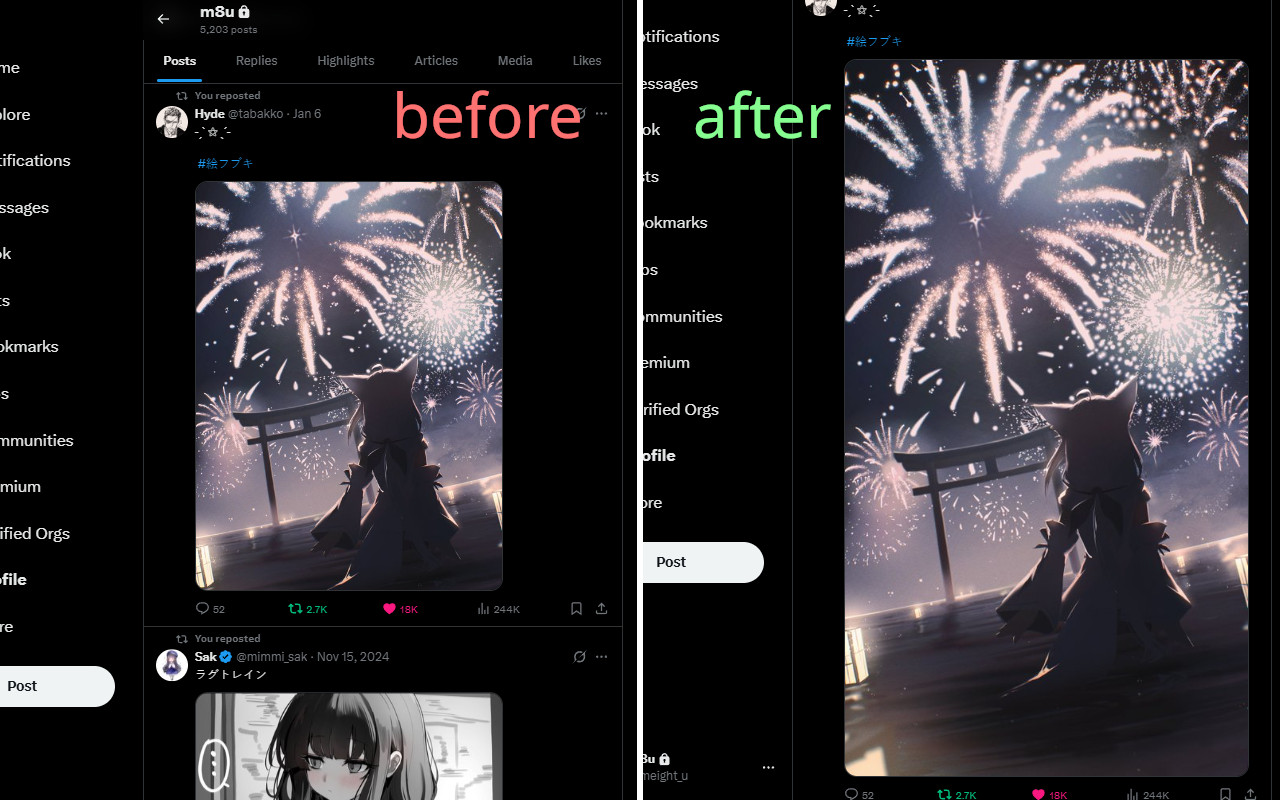
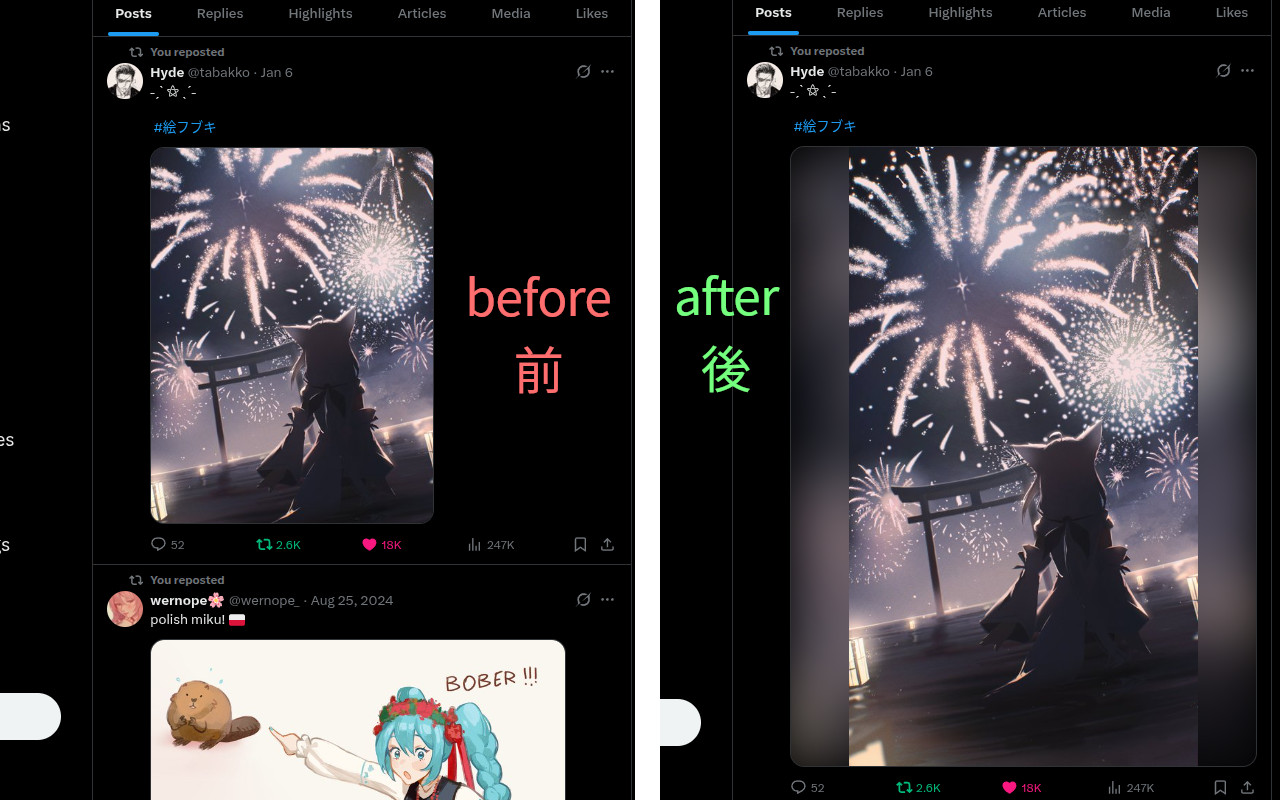
rewrite to pure CSS

diff --git a/content.js b/content.js
@@ -1,78 +1,76 @@
-function sleep(ms) {
-    return new Promise(resolve => setTimeout(resolve, ms));
+/*
+2025-09-11 Message for future me
+
+Xitter have slightly changed their crap layout again, and I'm done with maintaining my
+MutationObserver solution because it sucks anyway. Observer just can't keep up
+with everything that's going on, so we randomly get empty mutations, and some mutations
+are skipped whatsoever. I tried to deal with it, waiting a bit with sleep() before processing
+each mutation, and it worked reliably enough but obviously led to visible lag, especially when
+scrolling very fast or scrolling up.
+
+So this time I wanted to see how far can we go with pure CSS. As of today,
+Xitter limits the width of images in single-image posts to 504px,
+so we just use all the width there is. As for height, it's controlled by
+that padding-bottom: 133.333% node and can't be set correctly any way other than using JS.
+That is because the value for padding-bottom is set dynamically by Xitter's main.js
+(found by searching "paddingBottom: `", around 90kth line, though I couldn't find the exact
+place where it is calculated and capped to 133.333). The logical solution would be to completely
+override it, but that's out of scope of a content script. I guess it can be overriden using devtools
+local overrides or something like Tapermonkey or Requestly.
+
+For some reason, there is a sibling <div> next to each <img>, with background-image set to the same
+url, and it's actually always the <div> that is shown, while <img> has opacity of 0. I kinda remember
+noticing this earlier, but didn't pay much attention.
+
+Just for the sake of releasing a new, somewhat working version of TwitterLargeThumbnails, the current solution is:
+- for all elements that are limiting width of the image, set their width to 516px
+- make <img> visible and leave height as it is, set object-fit: contain, so image is not stretched
+- blur the background of sibling <div>
+This way, though scaled down a bit, we get to see whole image and to my preference it looks okay.
+*/
+
+var isFirefox = typeof InstallTrigger !== "undefined";
+
+const style = document.createElement("style")
+if (isFirefox) { // responsive layout works differently in Firefox for whatever reason
+    style.innerHTML = `
+        div.css-175oi2r div.css-175oi2r div.css-175oi2r.r-16y2uox div.css-175oi2r.r-f8sm7e.r-13qz1uu.r-1ye8kvj section.css-175oi2r div.css-175oi2r div div.css-175oi2r div.css-175oi2r.r-1igl3o0.r-qklmqi.r-1adg3ll.r-1ny4l3l div.css-175oi2r article.css-175oi2r.r-18u37iz.r-1udh08x.r-kpt88i.r-19m1me0.r-o7ynqc.r-6416eg.r-1ny4l3l.r-1loqt21 div.css-175oi2r.r-eqz5dr.r-16y2uox.r-1wbh5a2 div.css-175oi2r.r-16y2uox.r-1wbh5a2.r-1ny4l3l div.css-175oi2r.r-18u37iz div.css-175oi2r.r-1iusvr4.r-16y2uox.r-1777fci.r-1t982j2 div.css-175oi2r.r-9aw3ui.r-a1ub67 div.css-175oi2r.r-9aw3ui div.css-175oi2r {
+            max-width: 504px !important;
+        }
+
+        div.css-175oi2r div.css-175oi2r div.css-175oi2r.r-16y2uox div.css-175oi2r.r-f8sm7e.r-13qz1uu.r-1ye8kvj section.css-175oi2r div.css-175oi2r div div.css-175oi2r div.css-175oi2r.r-1igl3o0.r-qklmqi.r-1adg3ll.r-1ny4l3l div.css-175oi2r article.css-175oi2r.r-18u37iz.r-1udh08x.r-kpt88i.r-19m1me0.r-o7ynqc.r-6416eg.r-1ny4l3l.r-1loqt21 div.css-175oi2r.r-eqz5dr.r-16y2uox.r-1wbh5a2 div.css-175oi2r.r-16y2uox.r-1wbh5a2.r-1ny4l3l div.css-175oi2r.r-18u37iz div.css-175oi2r.r-1iusvr4.r-16y2uox.r-1777fci.r-1t982j2 div.css-175oi2r.r-9aw3ui.r-a1ub67 div.css-175oi2r.r-9aw3ui div.css-175oi2r div.css-175oi2r.r-k200y div.css-175oi2r.r-1kqtdi0.r-1phboty.r-rs99b7.r-1867qdf.r-1udh08x.r-o7ynqc.r-6416eg.r-1ny4l3l div.css-175oi2r div.css-175oi2r.r-16y2uox.r-1pi2tsx.r-13qz1uu a.css-175oi2r.r-1pi2tsx.r-1ny4l3l.r-1loqt21 div.css-175oi2r.r-1adg3ll.r-1udh08x {
+            width: 504px !important;
+            height: max-content !important;
+        }
+
+        div.css-175oi2r div.css-175oi2r.r-16y2uox div.css-175oi2r.r-f8sm7e.r-13qz1uu.r-1ye8kvj section.css-175oi2r div.css-175oi2r div div.css-175oi2r div.css-175oi2r.r-1igl3o0.r-qklmqi.r-1adg3ll.r-1ny4l3l div.css-175oi2r article.css-175oi2r.r-18u37iz.r-1udh08x.r-kpt88i.r-19m1me0.r-o7ynqc.r-6416eg.r-1ny4l3l.r-1loqt21 div.css-175oi2r.r-eqz5dr.r-16y2uox.r-1wbh5a2 div.css-175oi2r.r-16y2uox.r-1wbh5a2.r-1ny4l3l div.css-175oi2r.r-18u37iz div.css-175oi2r.r-1iusvr4.r-16y2uox.r-1777fci.r-1t982j2 div.css-175oi2r.r-9aw3ui.r-a1ub67 div.css-175oi2r.r-9aw3ui div.css-175oi2r div.css-175oi2r div.css-175oi2r.r-1kqtdi0.r-1phboty.r-rs99b7.r-1867qdf.r-1udh08x.r-o7ynqc.r-6416eg.r-1ny4l3l div.css-175oi2r div.css-175oi2r.r-16y2uox.r-1pi2tsx.r-13qz1uu a.css-175oi2r.r-1pi2tsx.r-1ny4l3l.r-1loqt21 div.css-175oi2r.r-1adg3ll.r-1udh08x div.r-1p0dtai.r-1pi2tsx.r-1d2f490.r-u8s1d.r-ipm5af.r-13qz1uu div.css-175oi2r.r-1mlwlqe.r-1udh08x.r-417010.r-aqfbo4.r-agouwx.r-1p0dtai.r-1d2f490.r-u8s1d.r-zchlnj.r-ipm5af img.css-9pa8cd {
+            opacity: 1;
+            object-fit: contain;
+        }
+
+        div.css-175oi2r div.css-175oi2r div.css-175oi2r.r-16y2uox div.css-175oi2r.r-f8sm7e.r-13qz1uu.r-1ye8kvj section.css-175oi2r div.css-175oi2r div div.css-175oi2r div.css-175oi2r.r-1igl3o0.r-qklmqi.r-1adg3ll.r-1ny4l3l div.css-175oi2r article.css-175oi2r.r-18u37iz.r-1udh08x.r-kpt88i.r-19m1me0.r-o7ynqc.r-6416eg.r-1ny4l3l.r-1loqt21 div.css-175oi2r.r-eqz5dr.r-16y2uox.r-1wbh5a2 div.css-175oi2r.r-16y2uox.r-1wbh5a2.r-1ny4l3l div.css-175oi2r.r-18u37iz div.css-175oi2r.r-1iusvr4.r-16y2uox.r-1777fci.r-1t982j2 div.css-175oi2r.r-9aw3ui.r-a1ub67 div.css-175oi2r.r-9aw3ui div.css-175oi2r div.css-175oi2r div.css-175oi2r.r-1kqtdi0.r-1phboty.r-rs99b7.r-1867qdf.r-1udh08x.r-o7ynqc.r-6416eg.r-1ny4l3l div.css-175oi2r div.css-175oi2r.r-16y2uox.r-1pi2tsx.r-13qz1uu a.css-175oi2r.r-1pi2tsx.r-1ny4l3l.r-1loqt21 div.css-175oi2r.r-1adg3ll.r-1udh08x div.r-1p0dtai.r-1pi2tsx.r-1d2f490.r-u8s1d.r-ipm5af.r-13qz1uu div.css-175oi2r.r-1mlwlqe.r-1udh08x.r-417010.r-aqfbo4.r-agouwx.r-1p0dtai.r-1d2f490.r-u8s1d.r-zchlnj.r-ipm5af div.css-175oi2r.r-1niwhzg.r-vvn4in.r-u6sd8q.r-1p0dtai.r-1pi2tsx.r-1d2f490.r-u8s1d.r-zchlnj.r-ipm5af.r-13qz1uu.r-1wyyakw.r-4gszlv {
+            filter: blur(2em) brightness(0.7);
+        }
+    `
+} else {
+    style.innerHTML = `
+        div.css-175oi2r.r-18u37iz > div.css-175oi2r.r-1iusvr4.r-16y2uox.r-1777fci.r-kzbkwu > div.css-175oi2r.r-9aw3ui.r-1s2bzr4 > div.css-175oi2r.r-9aw3ui > div {
+            max-width: 516px !important;
+        }
+
+        div.css-175oi2r.r-9aw3ui > div.css-175oi2r > div.css-175oi2r.r-k200y > div.css-175oi2r.r-1kqtdi0.r-1phboty.r-rs99b7.r-1867qdf.r-1udh08x.r-o7ynqc.r-6416eg.r-1ny4l3l > div.css-175oi2r > div.css-175oi2r.r-16y2uox.r-1pi2tsx.r-13qz1uu > a.css-175oi2r.r-1pi2tsx.r-1ny4l3l.r-1loqt21 > div {
+            width: 516px !important;
+            height: max-content !important;
+        }
+
+        div.css-175oi2r.r-9aw3ui > div.css-175oi2r > div.css-175oi2r.r-k200y > div.css-175oi2r.r-1kqtdi0.r-1phboty.r-rs99b7.r-1867qdf.r-1udh08x.r-o7ynqc.r-6416eg.r-1ny4l3l > div.css-175oi2r > div.css-175oi2r.r-16y2uox.r-1pi2tsx.r-13qz1uu > a.css-175oi2r.r-1pi2tsx.r-1ny4l3l.r-1loqt21 > div.css-175oi2r.r-1adg3ll.r-1udh08x > div.r-1p0dtai.r-1pi2tsx.r-1d2f490.r-u8s1d.r-ipm5af.r-13qz1uu > div.css-175oi2r.r-1mlwlqe.r-1udh08x.r-417010.r-aqfbo4.r-agouwx.r-1p0dtai.r-1d2f490.r-u8s1d.r-zchlnj.r-ipm5af > img {
+            opacity: 1;
+            object-fit: contain;
+        }
+
+        div.css-175oi2r.r-9aw3ui > div.css-175oi2r > div.css-175oi2r.r-k200y > div.css-175oi2r.r-1kqtdi0.r-1phboty.r-rs99b7.r-1867qdf.r-1udh08x.r-o7ynqc.r-6416eg.r-1ny4l3l > div.css-175oi2r > div.css-175oi2r.r-16y2uox.r-1pi2tsx.r-13qz1uu > a.css-175oi2r.r-1pi2tsx.r-1ny4l3l.r-1loqt21 > div.css-175oi2r.r-1adg3ll.r-1udh08x > div.r-1p0dtai.r-1pi2tsx.r-1d2f490.r-u8s1d.r-ipm5af.r-13qz1uu > div.css-175oi2r.r-1mlwlqe.r-1udh08x.r-417010.r-aqfbo4.r-agouwx.r-1p0dtai.r-1d2f490.r-u8s1d.r-zchlnj.r-ipm5af > div {
+            filter: blur(2em) brightness(0.7);
+        }
+    `
 }
-
-function process(mutation) {
-    if (!mutation.addedNodes) {
-        return;
-    }
-
-    const image = mutation.addedNodes[0];
-    if (!image) {
-        return;
-    }
-    try {
-        if (image.className !== "css-9pa8cd" || !(image.getAttribute("src").includes("/media/"))) {
-            return;
-        }
-    } catch (e) {
-        console.log(e)
-        return;
-    }
-
-    if (image.naturalWidth === 0) {
-        setTimeout(() => {
-            process(mutation);
-        }, 1000);
-        return;
-    }
-
-    const marginsNode = image
-        .parentNode
-        .parentNode
-        .firstChild;
-    marginsNode.style.marginTop = "0";
-    marginsNode.style.marginBottom = "0";
-    marginsNode.style.marginLeft = "0";
-    marginsNode.style.marginRight = "0";
-
-    const thatNode = image.parentNode
-        .parentNode
-        .parentNode
-        .firstChild;
-    const thatAnotherNode = image.parentNode
-        .parentNode
-        .parentNode;
-
-    try {
-        if (thatAnotherNode.style.height === "510px") {
-            thatAnotherNode.style.height = (504 * (image.naturalHeight / image.naturalWidth)) + "px";
-            thatAnotherNode.style.width = "504px";
-        }
-        if (thatNode.style.paddingBottom === "133.333%") {
-            const intrinsicRatio = image.naturalHeight / image.naturalWidth;
-            thatNode.style.paddingBottom = (504 * intrinsicRatio) + "px";
-        }
-    } catch (e) {
-        console.log(e);
-    }
-}
-
-const observer = new MutationObserver(async function (mutations) {
-    if (
-        window.location.pathname.startsWith("/compose/tweet")
-        || window.location.pathname.startsWith("/messages")
-    )
-        return;
-
-    await sleep(500);
-
-    for (const mutation of mutations) {
-        process(mutation);
-    }
-})
-
-observer.observe(document.body, {
-    childList: true,
-    subtree: true
-})
+document.head.appendChild(style)

diff --git a/README.md b/README.md
@@ -1,5 +1,5 @@
-# TwitterLargeThumbnails
-A browser extension that resizes single-media posts in X (Twitter) so images appear in full size without cropping.
+# Twitter Large Thumbnails
+A browser extension which resizes single-image posts in X (Twitter) so that images appear without cropping.
 
 # Screenshots
 ![screenshot.jpg](screenshot.jpg)
